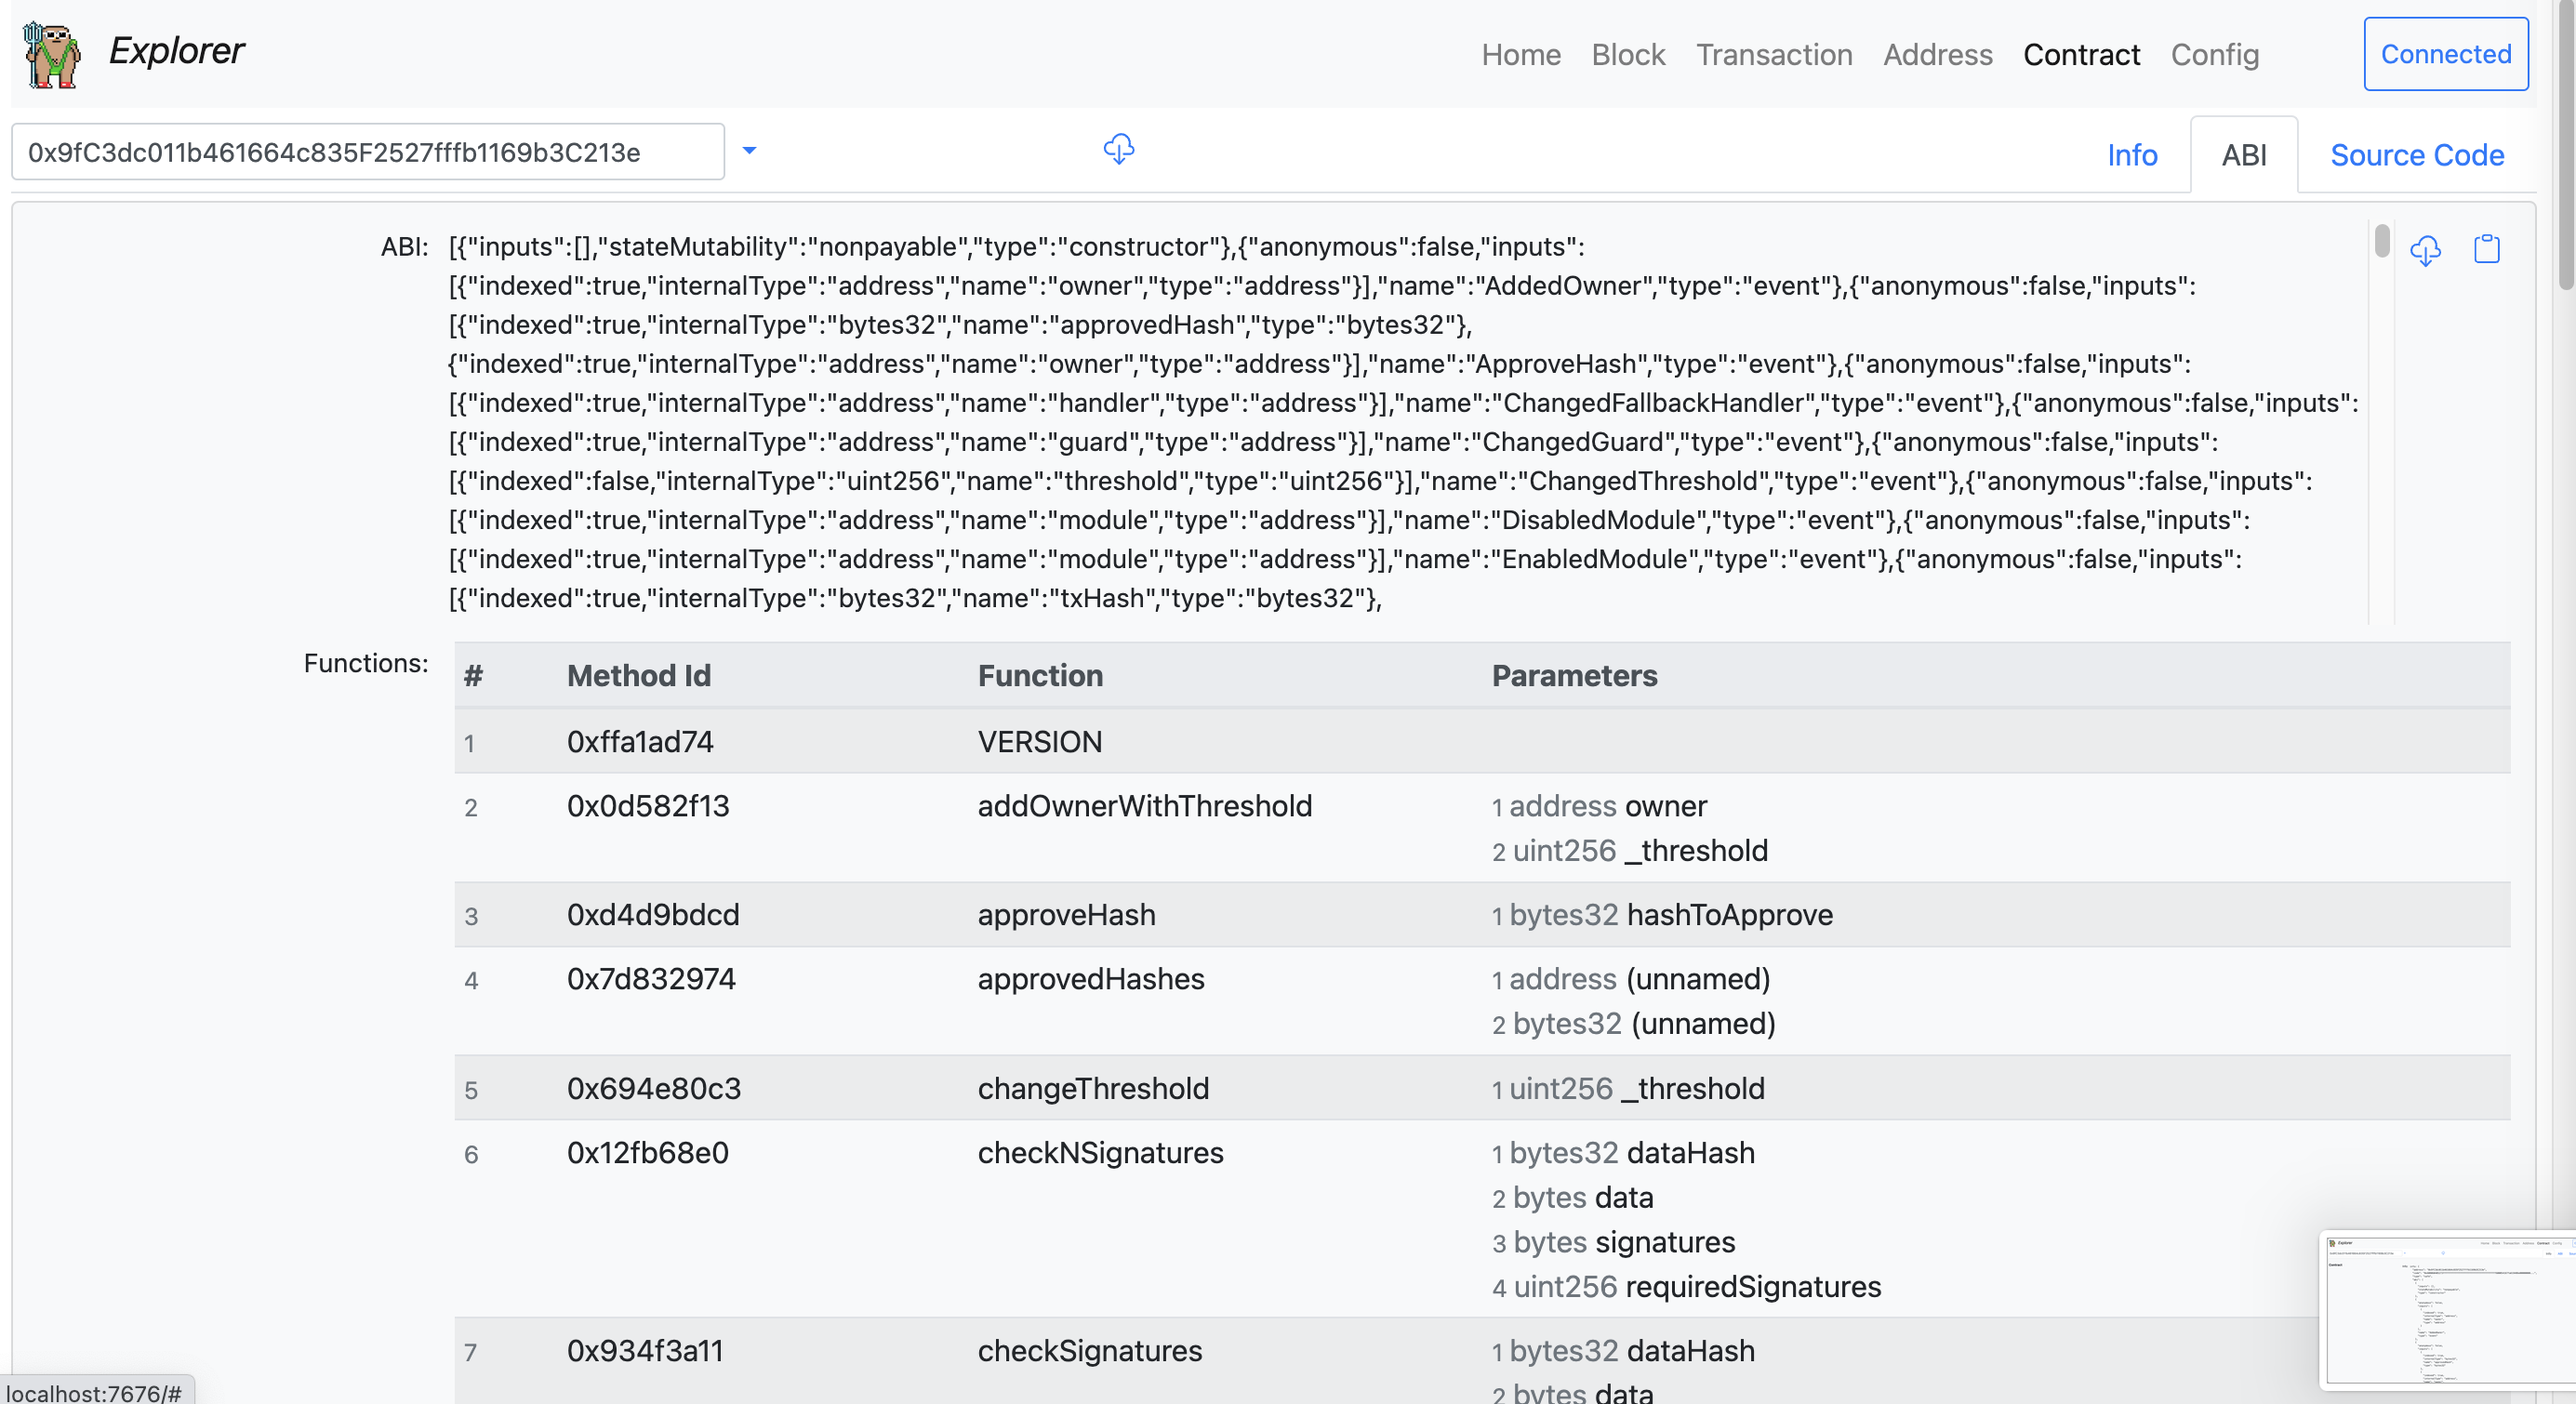
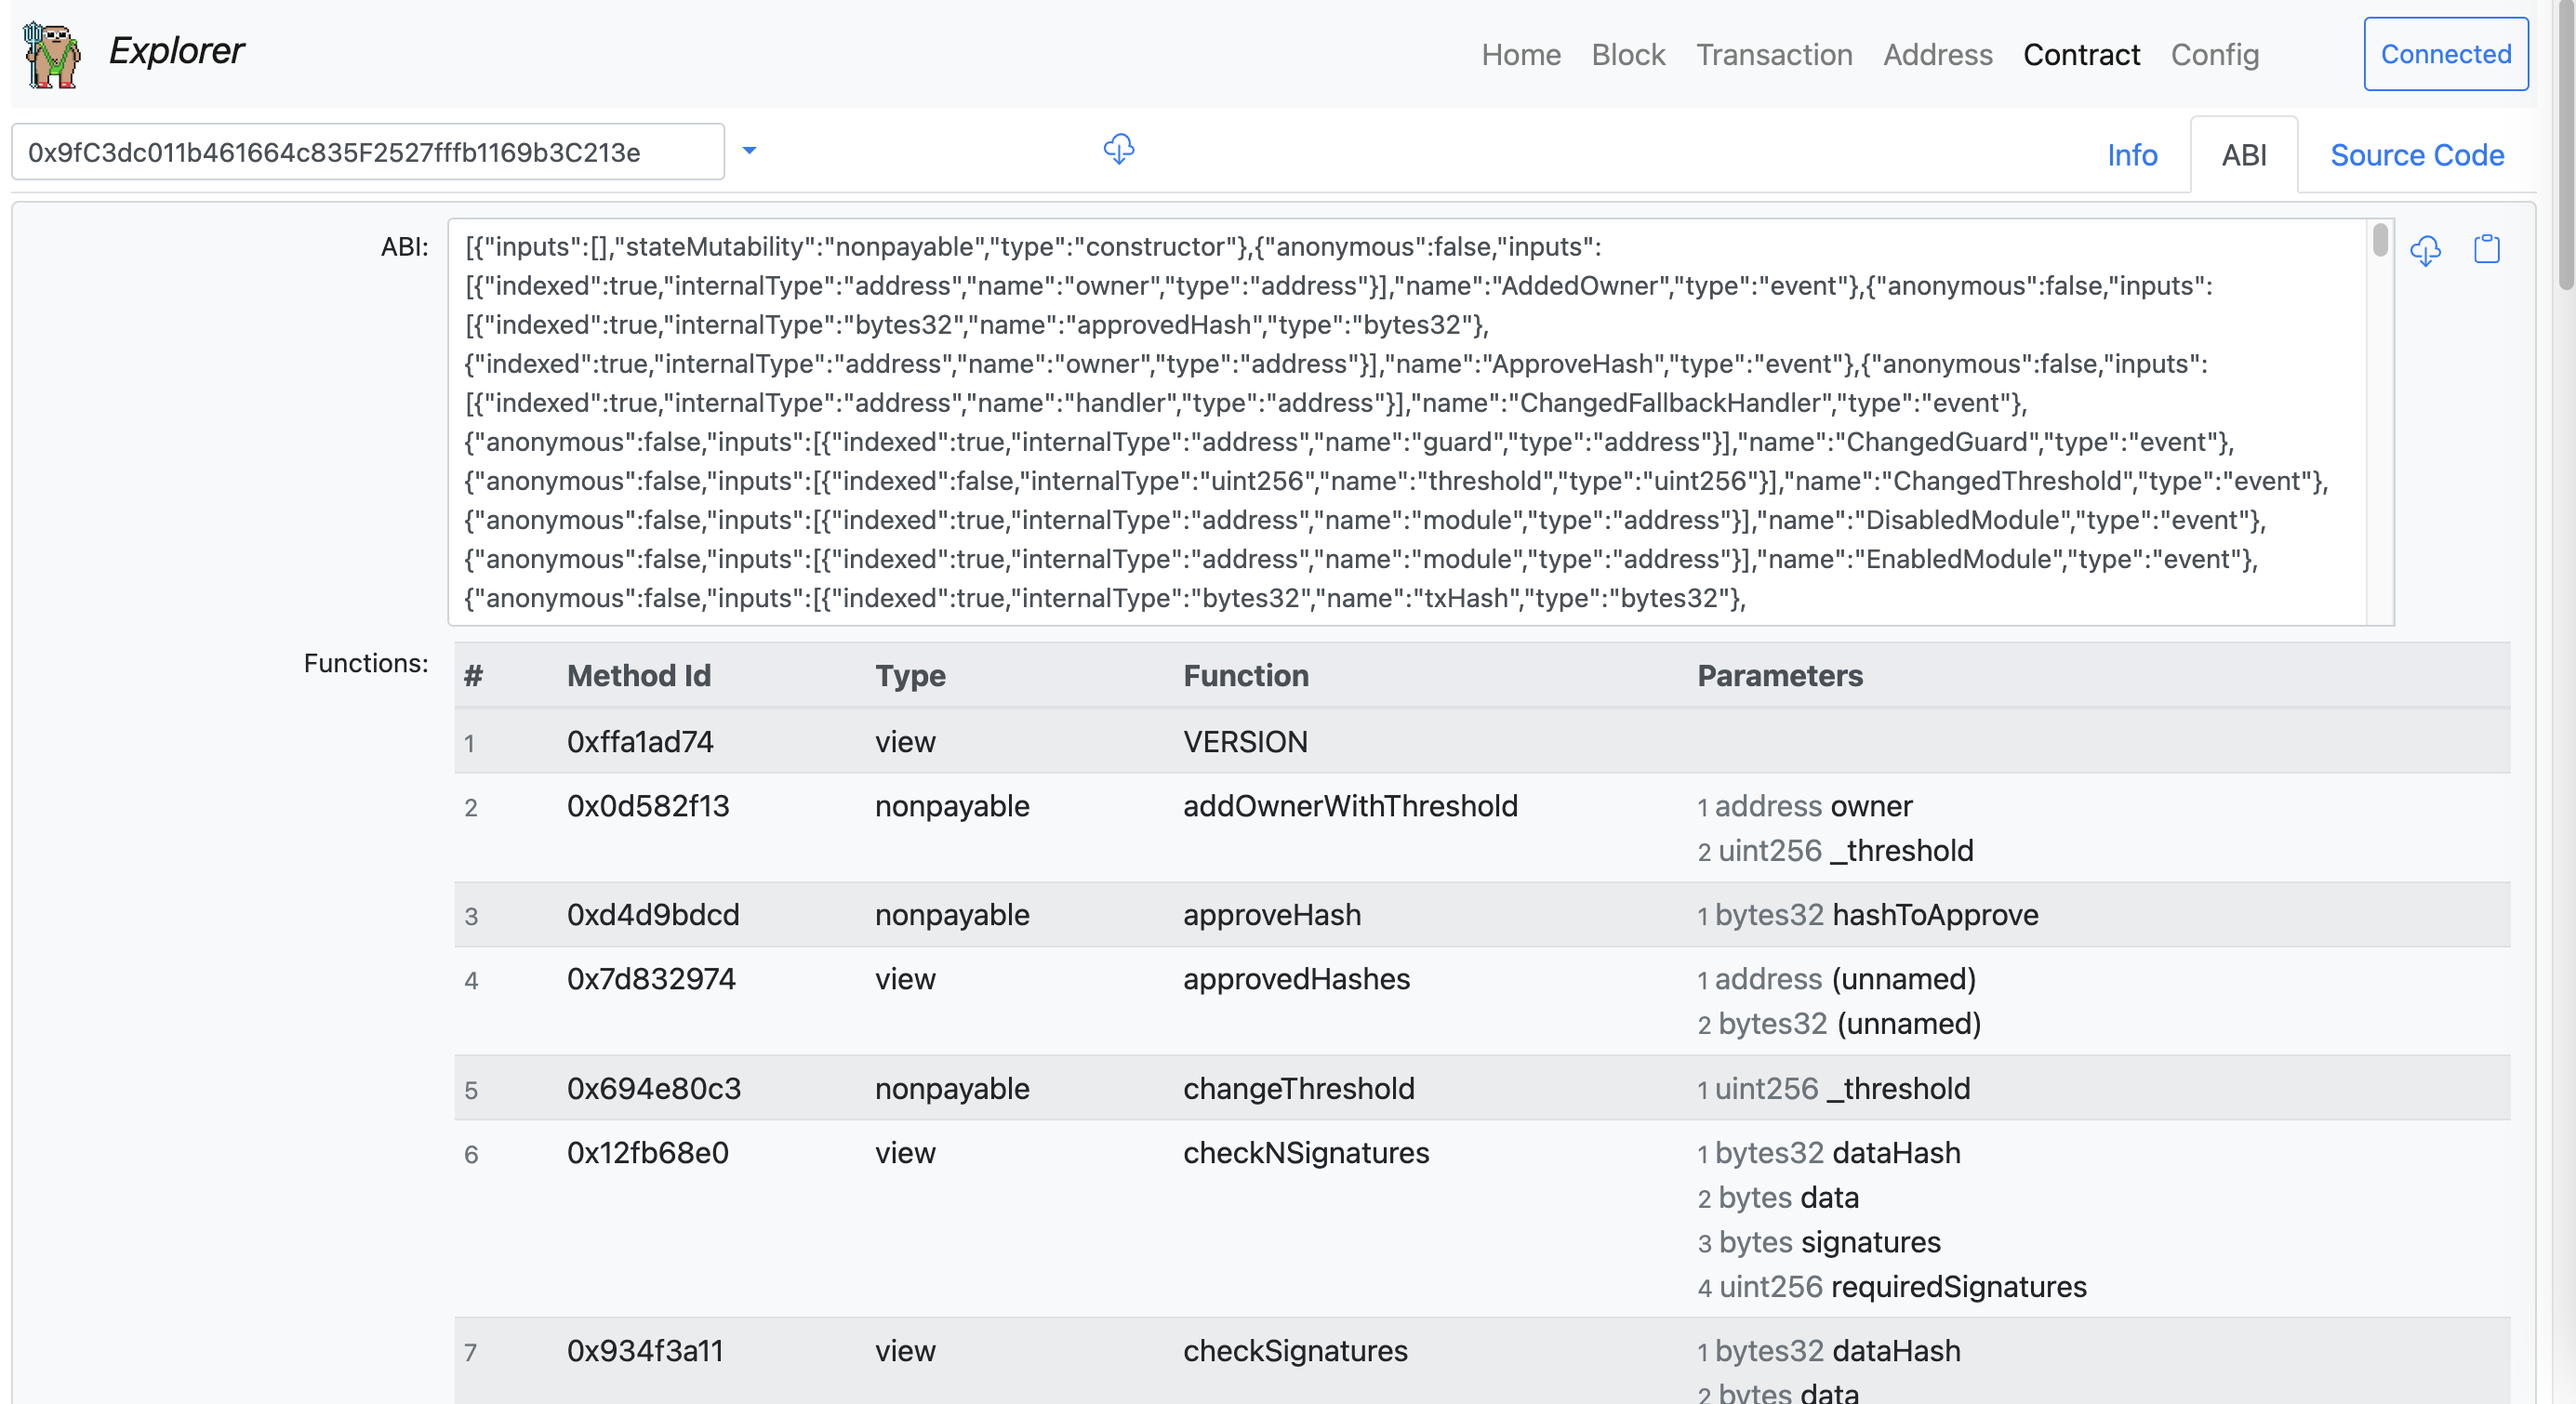
contract wip

diff --git a/docs/contract.js b/docs/contract.js
@@ -182,9 +182,10 @@ info: {{ info }}
       info: {},
       functionFields: [
         { key: 'index', label: '#', sortable: false, thStyle: 'width: 5%;', tdClass: 'text-truncate' },
-        { key: 'methodId', label: 'Method Id', sortable: false, thStyle: 'width: 20%;', tdClass: 'text-truncate' },
+        { key: 'methodId', label: 'Method Id', sortable: false, thStyle: 'width: 15%;', tdClass: 'text-truncate' },
+        { key: 'stateMutability', label: 'Type', sortable: false, thStyle: 'width: 15%;', tdClass: 'text-truncate' },
         { key: 'function', label: 'Function', sortable: false, thStyle: 'width: 25%;', tdClass: 'text-left' },
-        { key: 'parameters', label: 'Parameters', sortable: false, thStyle: 'width: 50%;', tdClass: 'text-left' },
+        { key: 'parameters', label: 'Parameters', sortable: false, thStyle: 'width: 40%;', tdClass: 'text-left' },
       ],
       eventFields: [
         { key: 'index', label: '#', sortable: false, thStyle: 'width: 5%;', tdClass: 'text-truncate' },
@@ -214,7 +215,7 @@ info: {{ info }}
               const functionInfo = interface.getFunction(f.substring(9,));
               const methodId = interface.getSighash(functionInfo);
               const parameters = functionInfo.inputs.map(e => ({ name: e.name, type: e.type }));
-              results[methodId] = { name: functionInfo.name, parameters /*, names, types*/ };
+              results[methodId] = { name: functionInfo.name, stateMutability: functionInfo.stateMutability, parameters /*, names, types*/ };
             }
           }
         } catch (e) {
